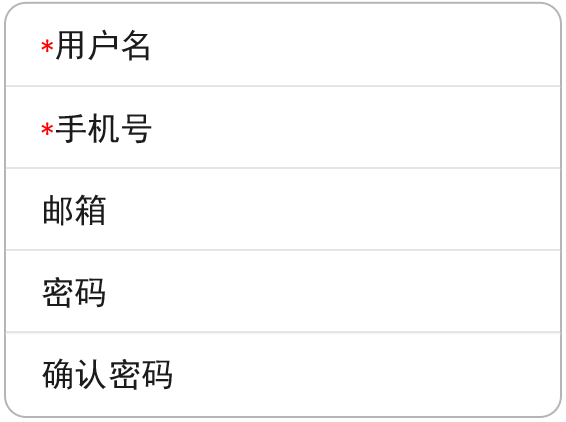
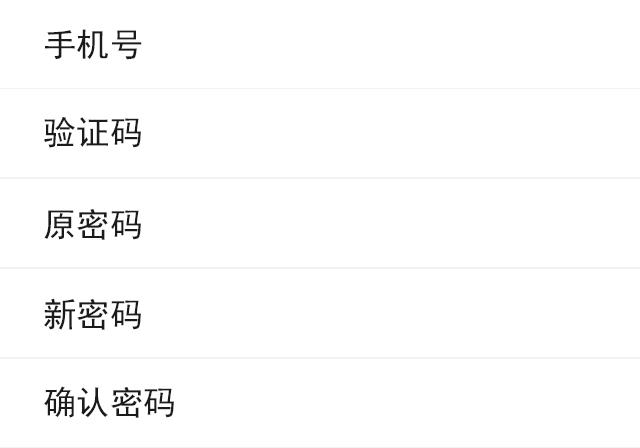
asy

diff --git a/teacher/iPhone/UI/controller/LoginViewController/activateViewController.m b/teacher/iPhone/UI/controller/LoginViewController/activateViewController.m
@@ -11,11 +11,13 @@
 
 @interface activateViewController ()<UITextFieldDelegate>
 @property (nonatomic) BOOL needSetUserName;
-@property (nonatomic,strong) UITextField *userName;
+@property (nonatomic,strong) UITextField *smsCode;
 @property (nonatomic,strong) UITextField *telPhone;
-@property (nonatomic,strong) UITextField *email;
+@property (nonatomic,strong) UITextField *passwordOld;
 @property (nonatomic,strong) UITextField *password;
 @property (nonatomic,strong) UITextField *confrimPassWord;
+@property (nonatomic,strong) UIButton *smsButton;
+-(void) getsmsCode;
 @end
 
 @implementation activateViewController
@@ -29,23 +31,14 @@
 
 -(void) viewWillAppear:(BOOL)animated{
     [super viewWillAppear:animated];
-//    [[NSNotificationCenter defaultCenter] addObserver:self
-//                                             selector:@selector(keyboardWillShow:)
-//                                                 name:UIKeyboardWillShowNotification
-//                                               object:nil];
-//    
-//    [[NSNotificationCenter defaultCenter] addObserver:self
-//                                             selector:@selector(keyboardWillHide:)
-//                                                 name:UIKeyboardWillHideNotification
-//                                               object:nil];
-    [[PalmUIManagement sharedInstance] addObserver:self forKeyPath:@"activateDic" options:0 context:nil];
+    [[PalmUIManagement sharedInstance] addObserver:self forKeyPath:@"postUserInfoResult" options:0 context:nil];
+    [[PalmUIManagement sharedInstance] addObserver:self forKeyPath:@"smsVerifyCode" options:0 context:nil];
 }
 
 -(void) viewDidDisappear:(BOOL)animated{
-    [super viewDidDisappear:animated];
-//    [[NSNotificationCenter defaultCenter] removeObserver:self name:UIKeyboardWillShowNotification object:nil];
-//    [[NSNotificationCenter defaultCenter] removeObserver:self name:UIKeyboardWillHideNotification object:nil];
-    [[PalmUIManagement sharedInstance] removeObserver:self forKeyPath:@"activateDic"];
+    [super viewDidDisappear:animated];;
+    [[PalmUIManagement sharedInstance] removeObserver:self forKeyPath:@"postUserInfoResult"];
+    [[PalmUIManagement sharedInstance] removeObserver:self forKeyPath:@"smsVerifyCode"];
 }
 
 -(void) keyboardWillShow : (NSNotification *)not{
@@ -99,46 +92,54 @@
     
     if (self.needSetUserName) {
         UIImageView *fromImage = [[UIImageView alloc] initWithImage:[UIImage imageNamed:@"ActivateBigFrom"]];
-        fromImage.frame = CGRectMake((320.0f-283.0f)/2.0f, 110.0f, 283.0f, 211.0f);
+        fromImage.frame = CGRectMake(0.0f, 29.0f, 320.0f, 224.0f);
         fromImage.userInteractionEnabled = YES;
         [self.view addSubview:fromImage];
         
-        self.userName = [[UITextField alloc] initWithFrame:CGRectMake(85.0f, 12.0f, 180.0f, 24.0f)];
-        self.userName.backgroundColor = [UIColor clearColor];
-        self.userName.textAlignment = NSTextAlignmentRight;
-        self.userName.returnKeyType = UIReturnKeyDone;
-        self.userName.delegate = self;
-        [fromImage addSubview:self.userName];
-        
-        self.telPhone = [[UITextField alloc] initWithFrame:CGRectMake(85.0f, 52.0f, 180.0f, 24.0f)];
+        self.telPhone = [[UITextField alloc] initWithFrame:CGRectMake(95.0f, 12.0f, 180.0f, 24.0f)];
         self.telPhone.backgroundColor = [UIColor clearColor];
-        self.telPhone.textAlignment = NSTextAlignmentRight;
+        self.telPhone.textAlignment = NSTextAlignmentLeft;
         self.telPhone.returnKeyType = UIReturnKeyDone;
         self.telPhone.keyboardType = UIKeyboardTypeNumberPad;
         self.telPhone.delegate = self;
         [fromImage addSubview:self.telPhone];
         
-        self.email = [[UITextField alloc] initWithFrame:CGRectMake(85.0f, 92.0f, 180.0f, 24.0f)];
-        self.email.backgroundColor = [UIColor clearColor];
-        self.email.textAlignment = NSTextAlignmentRight;
-        self.email.returnKeyType = UIReturnKeyDone;
-        self.email.keyboardType = UIKeyboardTypeEmailAddress;
-        self.email.delegate = self;
-        [fromImage addSubview:self.email];
+        self.smsCode = [[UITextField alloc] initWithFrame:CGRectMake(95.0f, 55.0f, 90.0f, 24.0f)];
+        self.smsCode.backgroundColor = [UIColor clearColor];
+        self.smsCode.textAlignment = NSTextAlignmentLeft;
+        self.smsCode.returnKeyType = UIReturnKeyDone;
+        self.smsCode.keyboardType = UIKeyboardTypeNumberPad;
+        self.smsCode.delegate = self;
+        [fromImage addSubview:self.smsCode];
         
-        self.password = [[UITextField alloc] initWithFrame:CGRectMake(85.0f, 132.0f, 180.0f, 24.0f)];
+        self.smsButton = [UIButton buttonWithType:UIButtonTypeCustom];
+        [self.smsButton setBackgroundImage:[UIImage imageNamed:@"GetSmsCode"] forState:UIControlStateNormal];
+        [self.smsButton setBackgroundImage:[UIImage imageNamed:@"GetSmsCode"] forState:UIControlStateHighlighted];
+        self.smsButton.frame = CGRectMake(210.0f, 52.0f, 80.0f, 30.0f);
+        [self.smsButton addTarget:self action:@selector(getsmsCode) forControlEvents:UIControlEventTouchUpInside];
+        [fromImage addSubview:self.smsButton];
+        
+        self.passwordOld = [[UITextField alloc] initWithFrame:CGRectMake(95.0f, 98.0f, 180.0f, 24.0f)];
+        self.passwordOld.backgroundColor = [UIColor clearColor];
+        self.passwordOld.textAlignment = NSTextAlignmentLeft;
+        self.passwordOld.returnKeyType = UIReturnKeyDone;
+        self.passwordOld.secureTextEntry = YES;
+        self.passwordOld.delegate = self;
+        [fromImage addSubview:self.passwordOld];
+        
+        self.password = [[UITextField alloc] initWithFrame:CGRectMake(95.0f, 144.0f, 180.0f, 24.0f)];
         self.password.backgroundColor = [UIColor clearColor];
-        self.password.textAlignment = NSTextAlignmentRight;
+        self.password.textAlignment = NSTextAlignmentLeft;
         self.password.returnKeyType = UIReturnKeyDone;
         self.password.secureTextEntry = YES;
         self.password.delegate = self;
         [fromImage addSubview:self.password];
         
-        self.confrimPassWord = [[UITextField alloc] initWithFrame:CGRectMake(85.0f, 172.0f, 180.0f, 24.0f)];
+        self.confrimPassWord = [[UITextField alloc] initWithFrame:CGRectMake(95.0f, 190.0f, 180.0f, 24.0f)];
         self.confrimPassWord.backgroundColor = [UIColor clearColor];
         self.confrimPassWord.returnKeyType = UIReturnKeyDone;
         self.confrimPassWord.secureTextEntry = YES;
-        self.confrimPassWord.textAlignment = NSTextAlignmentRight;
+        self.confrimPassWord.textAlignment = NSTextAlignmentLeft;
         self.confrimPassWord.delegate = self;
         [fromImage addSubview:self.confrimPassWord];
     }else{
@@ -183,9 +184,9 @@
 }
 
 -(void) clickBG : (UIGestureRecognizer *) recognizer{
-    [self.userName resignFirstResponder];
+    [self.smsCode resignFirstResponder];
     [self.telPhone resignFirstResponder];
-    [self.email resignFirstResponder];
+    [self.passwordOld resignFirstResponder];
     [self.password resignFirstResponder];
     [self.confrimPassWord resignFirstResponder];
 }
@@ -196,40 +197,39 @@
 }
 
 -(void) clickActivate{
-//    NSString *userNameText = [self.userName.text stringByTrimmingCharactersInSet:[NSCharacterSet whitespaceCharacterSet]];
+
     NSString *telPhoneText = nil;
     if (nil != self.telPhone) {
         telPhoneText = [self.telPhone.text stringByTrimmingCharactersInSet:[NSCharacterSet whitespaceCharacterSet]];
     }
-//    NSString *emailText = [self.email.text stringByTrimmingCharactersInSet:[NSCharacterSet whitespaceCharacterSet]];
-    NSString *passwordText = [self.password.text stringByTrimmingCharactersInSet:[NSCharacterSet whitespaceCharacterSet]];
-    NSString *confrimPassWordText = [self.confrimPassWord.text stringByTrimmingCharactersInSet:[NSCharacterSet whitespaceCharacterSet]];
-    
-//    if (nil == userNameText || [userNameText isEqualToString:@""]) {
-//        [self showProgressWithText:@"用户名不能为空" withDelayTime:1.0f];
-//        return;
-//    }
-//    
-//    if ([userNameText length] > 25 || [userNameText length] < 4) {
-//        [self showProgressWithText:@"用户名长度为4-25个字符" withDelayTime:1.0f];
-//        return;
-//    }
     
     if (nil != self.telPhone) {
-        if (nil == telPhoneText) {
+        if (nil == telPhoneText || [telPhoneText isEqualToString:@""]) {
             [self showProgressWithText:@"手机号不能为空" withDelayTime:1.0f];
             return;
         }
     }
     
-//    if (nil != emailText && ![emailText isEqualToString:@""]) {
-//        NSString *emailRegex = @"[A-Z0-9a-z._%+-]+@[A-Za-z0-9.-]+\\.[A-Za-z]{2,4}";
-//        NSPredicate *emailTest = [NSPredicate predicateWithFormat:@"SELF MATCHES %@", emailRegex];
-//        if (![emailTest evaluateWithObject:emailText]) {
-//            [self showProgressWithText:@"邮箱地址不正确" withDelayTime:1.0f];
-//            return;
-//        }
-//    }
+    NSString *smsCode = nil;
+    if (nil != self.smsCode) {
+        smsCode = [self.smsCode.text stringByTrimmingCharactersInSet:[NSCharacterSet whitespaceCharacterSet]];
+    }
+    if (nil == smsCode || [smsCode isEqualToString:@""]) {
+        [self showProgressWithText:@"验证码不能为空" withDelayTime:1.0f];
+        return;
+    }
+    
+    NSString *passwordOld = nil;
+    if (nil != self.passwordOld) {
+        passwordOld = [self.passwordOld.text stringByTrimmingCharactersInSet:[NSCharacterSet whitespaceCharacterSet]];
+    }
+    if (nil == passwordOld || [passwordOld isEqualToString:@""]) {
+        [self showProgressWithText:@"旧密码不能为空" withDelayTime:1.0f];
+        return;
+    }
+    
+    NSString *passwordText = [self.password.text stringByTrimmingCharactersInSet:[NSCharacterSet whitespaceCharacterSet]];
+    NSString *confrimPassWordText = [self.confrimPassWord.text stringByTrimmingCharactersInSet:[NSCharacterSet whitespaceCharacterSet]];
     
     if ((nil != passwordText && ![passwordText isEqualToString:@""]) || (nil != confrimPassWordText && ![confrimPassWordText isEqualToString:@""])) {
         if (![passwordText isEqualToString:confrimPassWordText]) {
@@ -237,17 +237,37 @@
             return;
         }
     }
-    [[PalmUIManagement sharedInstance] activate:@"" withTelPhone:telPhoneText withEmail:@"" withPassWord:passwordText];
+
+    [[PalmUIManagement sharedInstance] postUserInfo:@"" withMobile:telPhoneText withVerifyCode:smsCode withPasswordOld:passwordOld withPasswordNew:passwordText withSex:0 withSign:@""];
+}
+
+-(void) getsmsCode{
+    NSString *telPhoneText = nil;
+    if (nil != self.telPhone) {
+        telPhoneText = [self.telPhone.text stringByTrimmingCharactersInSet:[NSCharacterSet whitespaceCharacterSet]];
+    }
+    if (nil != self.telPhone) {
+        if (nil == telPhoneText || [telPhoneText isEqualToString:@""]) {
+            [self showProgressWithText:@"手机号不能为空" withDelayTime:1.0f];
+            return;
+        }
+    }
+    [[PalmUIManagement sharedInstance] getSMSVerifyCode:telPhoneText];
 }
 
 -(void) observeValueForKeyPath:(NSString *)keyPath ofObject:(id)object change:(NSDictionary *)change context:(void *)context{
-    if ([keyPath isEqualToString:@"activateDic"]) {
-        if ([[PalmUIManagement sharedInstance].activateDic[ASI_REQUEST_HAS_ERROR] boolValue]) {
-            [self showProgressWithText:[PalmUIManagement sharedInstance].activateDic[ASI_REQUEST_ERROR_MESSAGE] withDelayTime:1.0f];
+    if ([keyPath isEqualToString:@"postUserInfoResult"]) {
+        if ([[PalmUIManagement sharedInstance].postUserInfoResult[ASI_REQUEST_HAS_ERROR] boolValue]) {
+            [self showProgressWithText:[PalmUIManagement sharedInstance].postUserInfoResult[ASI_REQUEST_ERROR_MESSAGE] withDelayTime:1.0f];
             return;
         }
         AppDelegate *appDelegate = (AppDelegate *)[UIApplication sharedApplication].delegate;
         [appDelegate launchApp];
+    }else if ([keyPath isEqualToString:@"smsVerifyCode"]){
+        if ([[PalmUIManagement sharedInstance].smsVerifyCode[ASI_REQUEST_HAS_ERROR] boolValue]) {
+            [self showProgressWithText:[PalmUIManagement sharedInstance].smsVerifyCode[ASI_REQUEST_ERROR_MESSAGE] withDelayTime:1.0f];
+            return;
+        }
     }
 }
 
